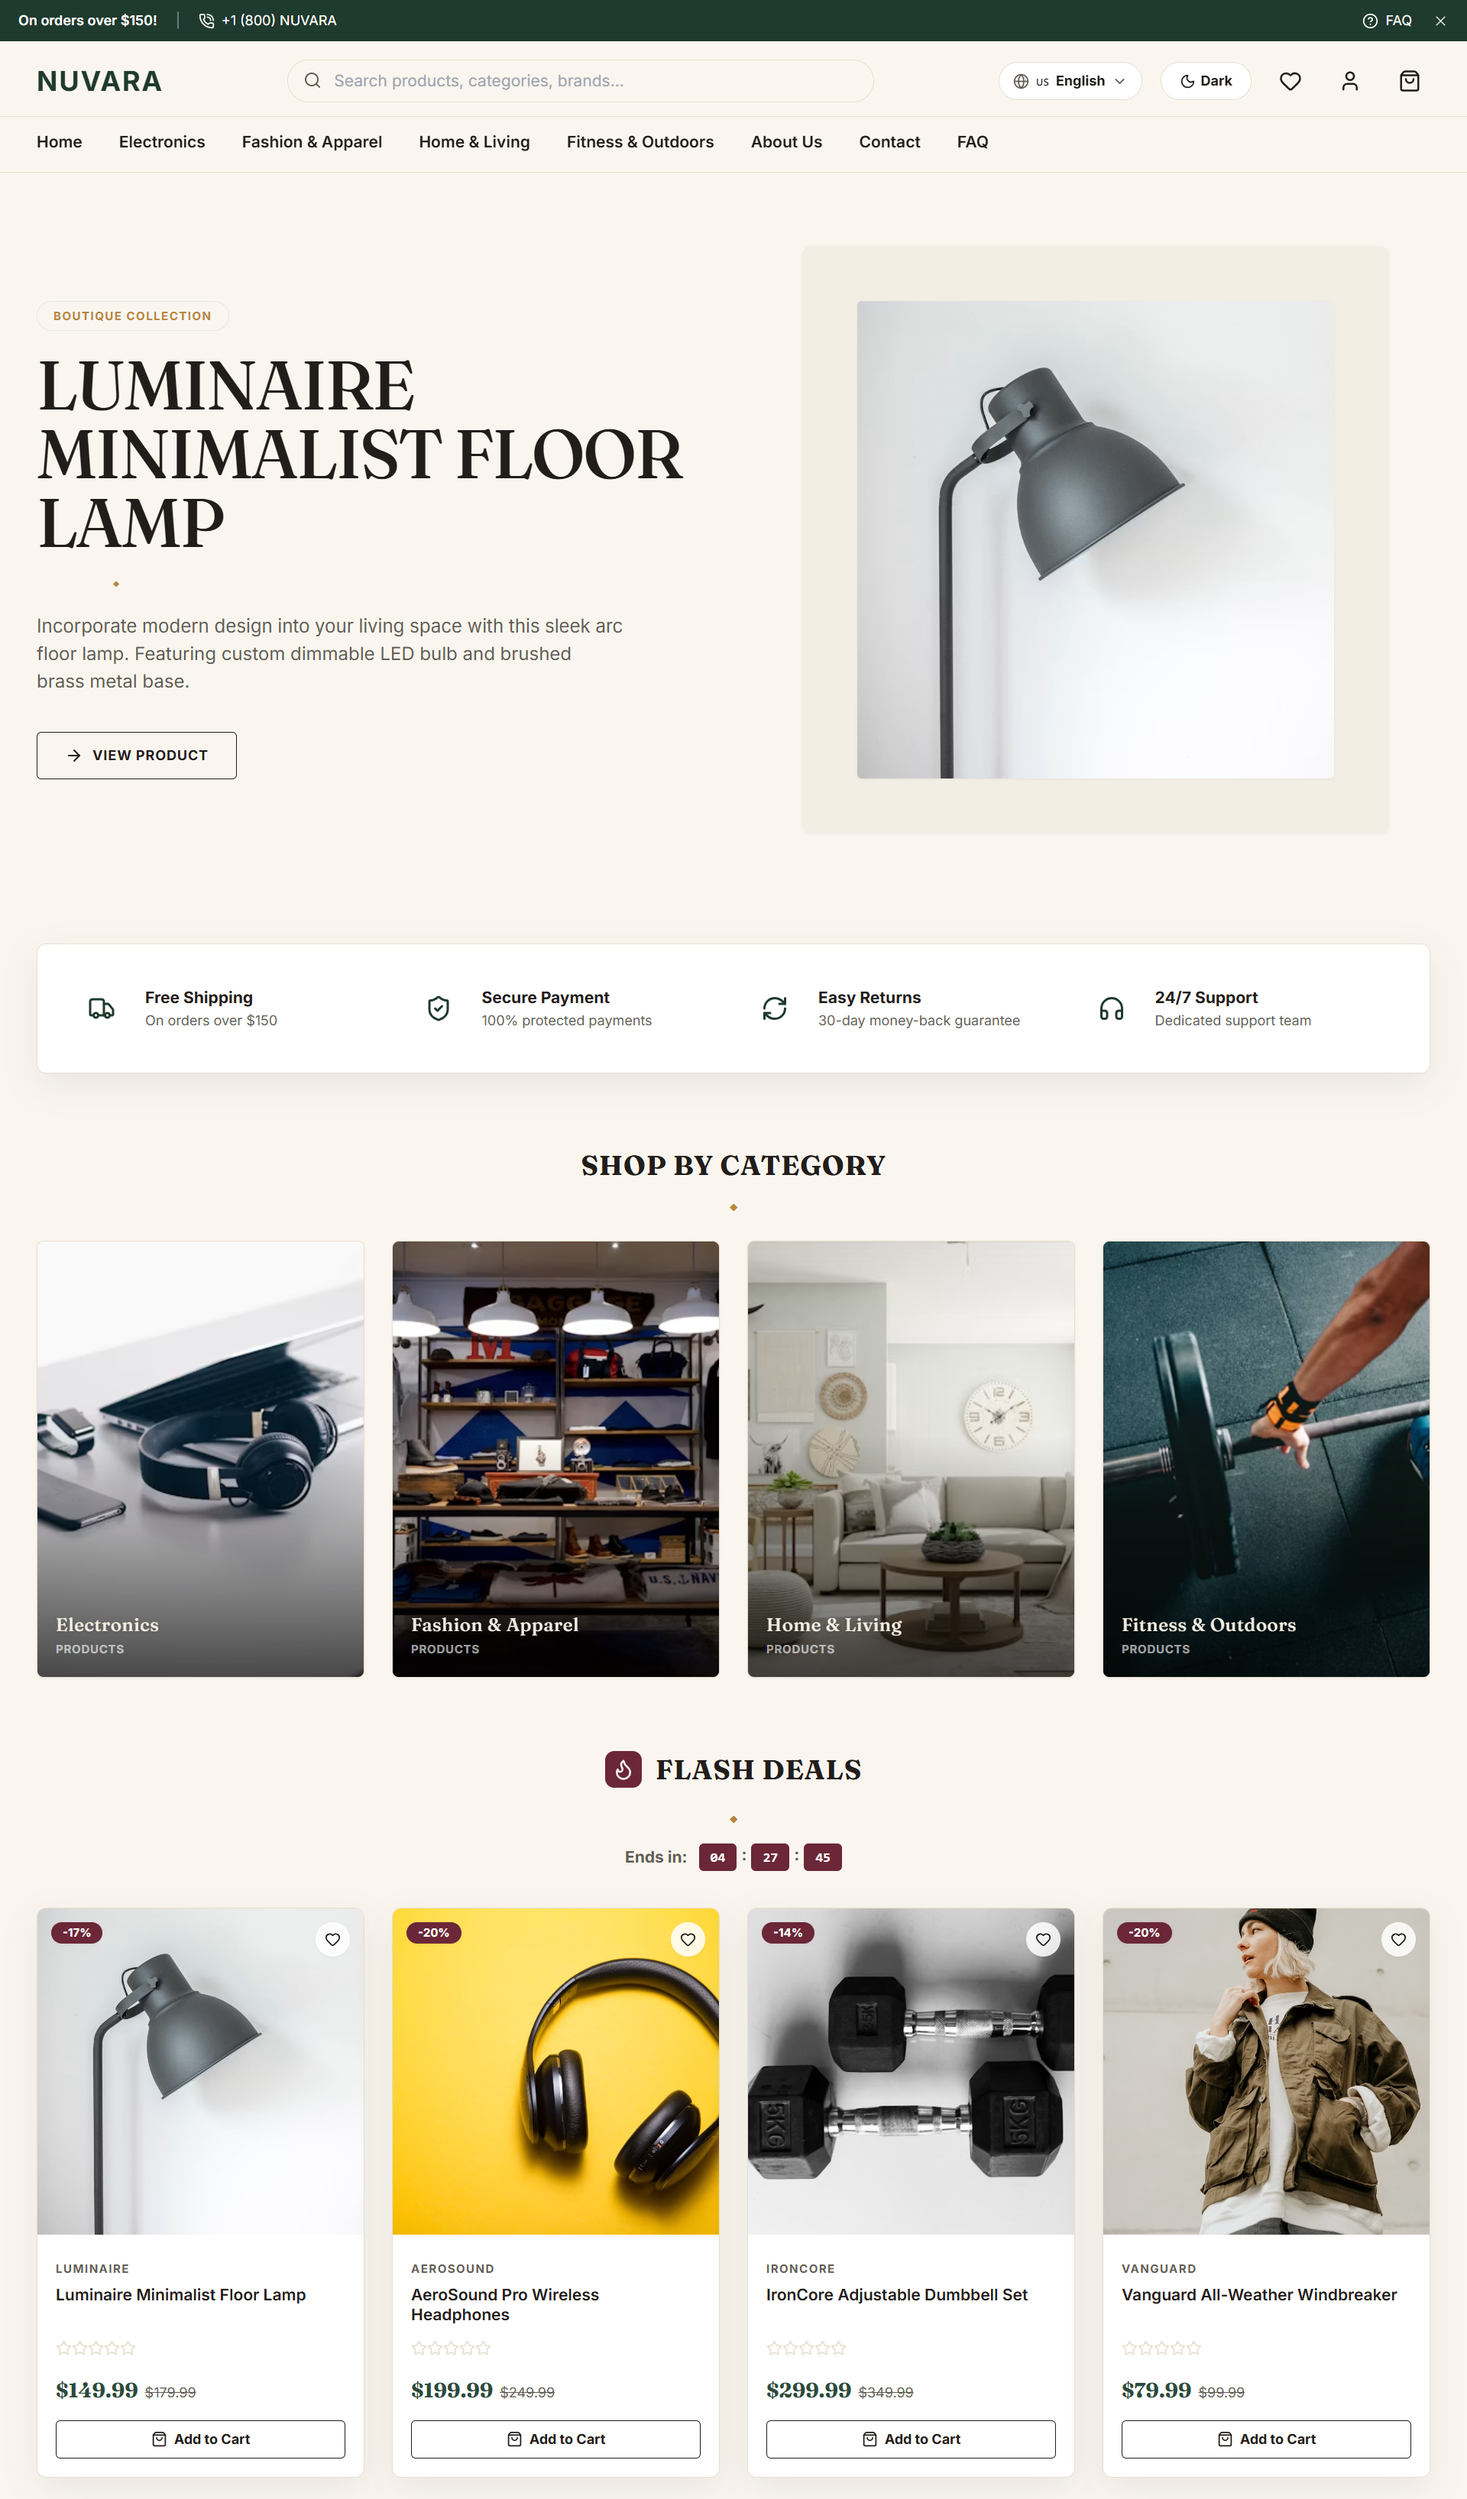
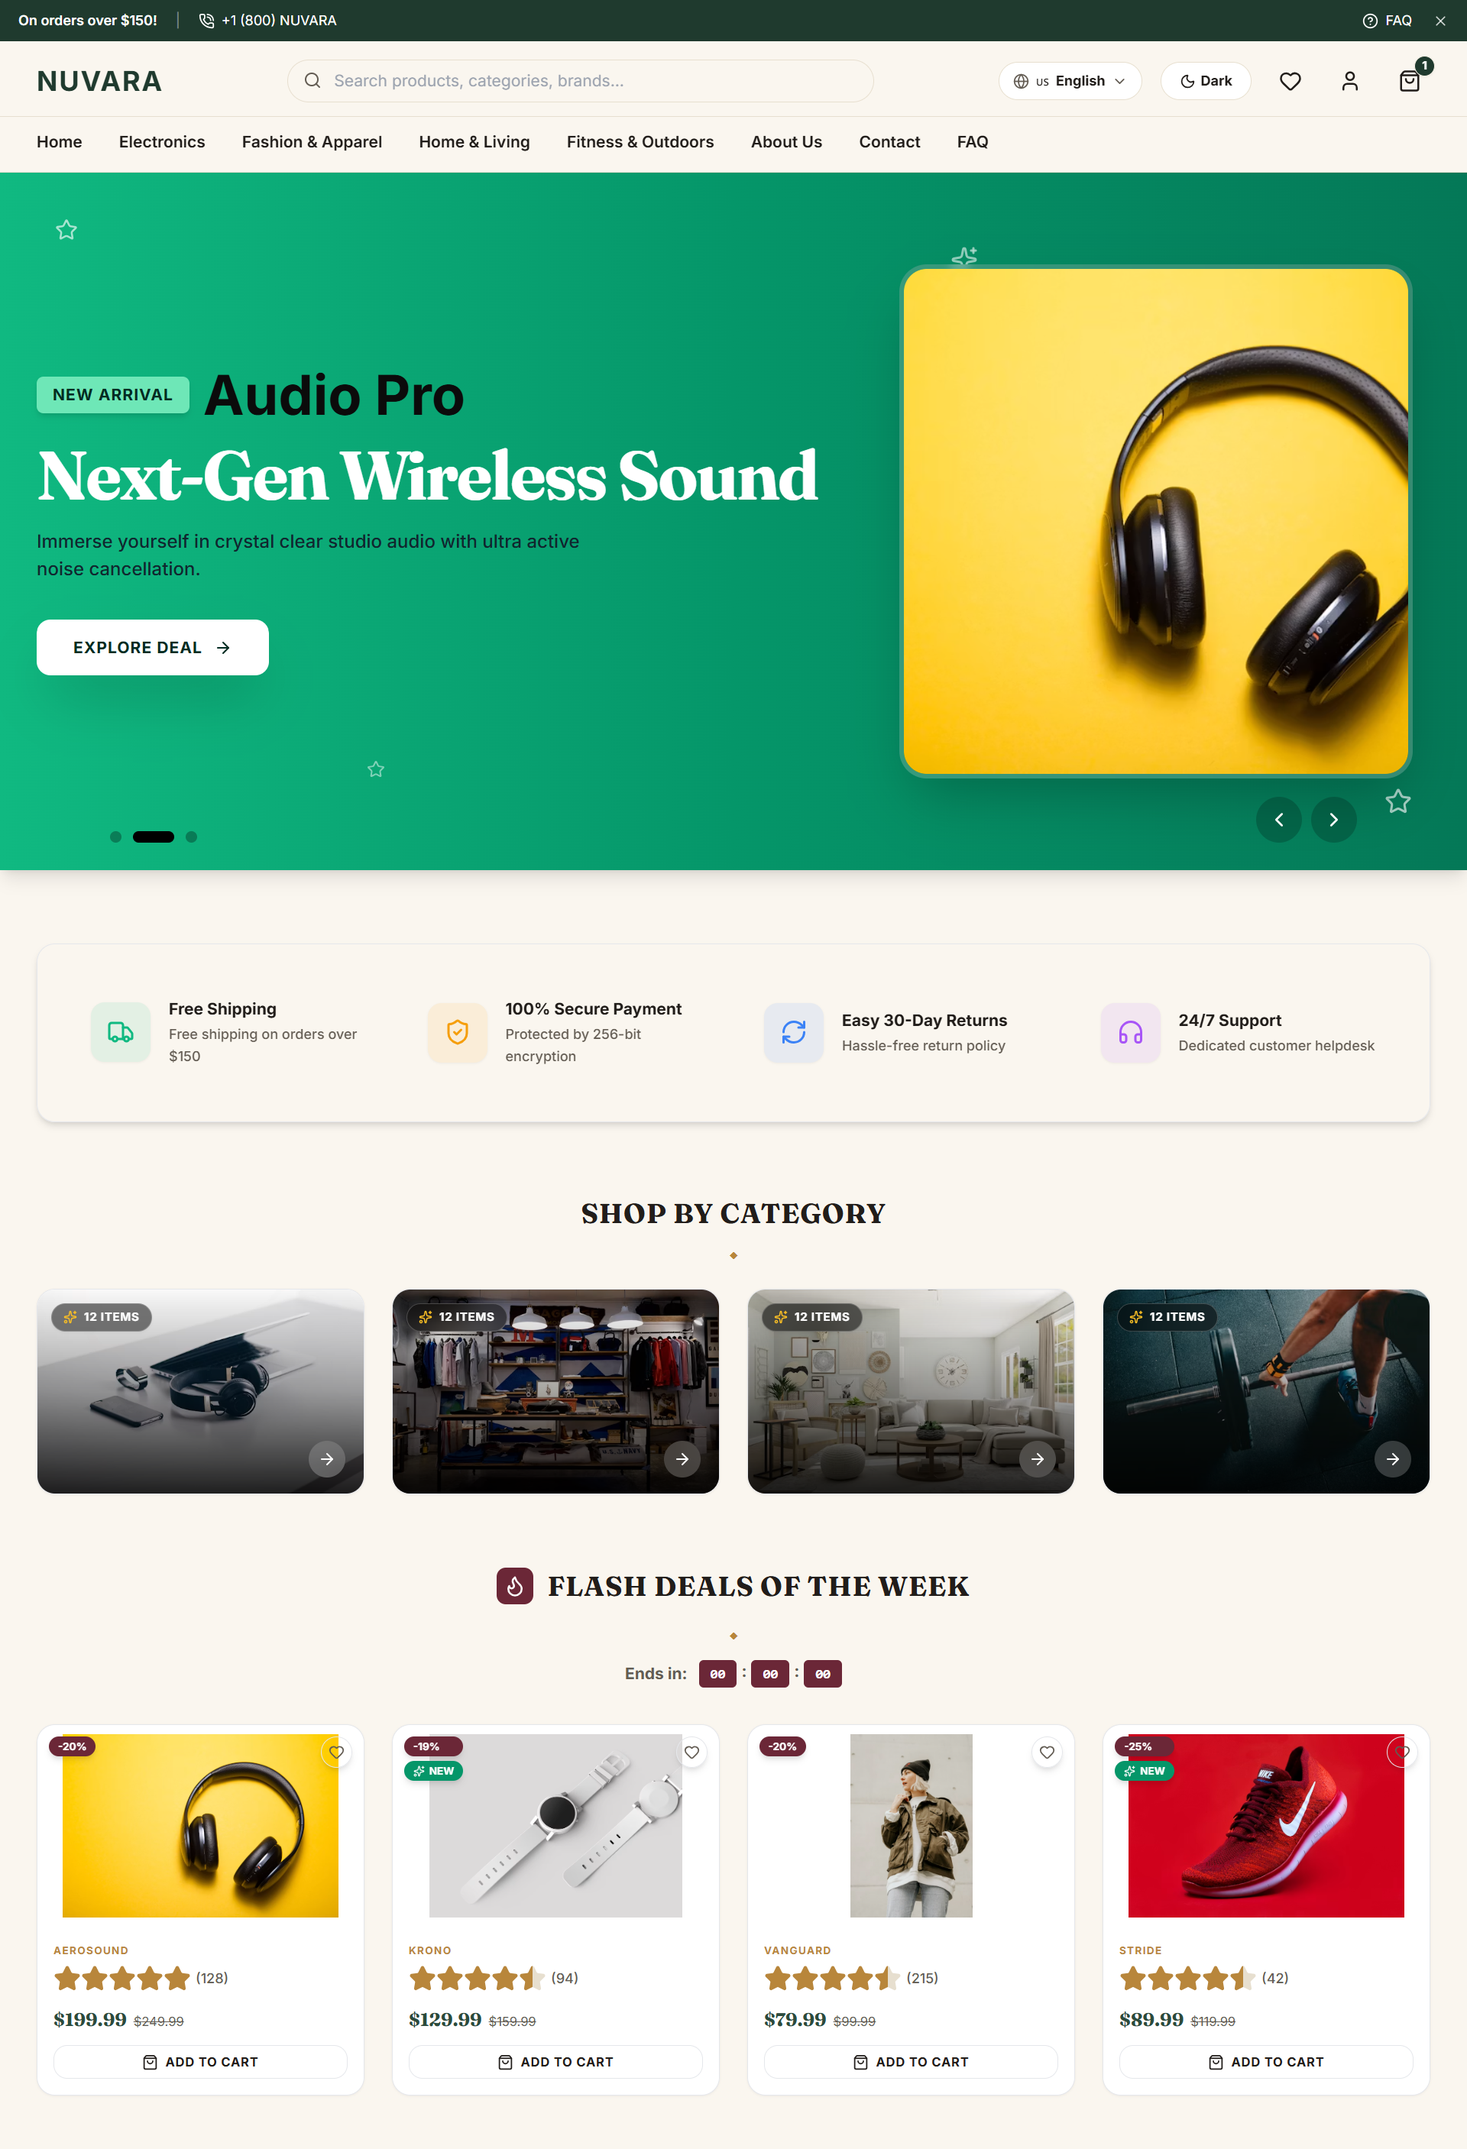
Added ERP

diff --git a/src/data/projects.js b/src/data/projects.js
@@ -2,6 +2,7 @@ import codexlabasia from '../assets/codexlabasia.png';
 import kino from '../assets/kino.png';
 import nuvara from '../assets/Nuvara.png';
 import mentorsGlobal from '../assets/mentors_global.png';
+import erp from '../assets/erp.png';
 
 const rawProjectsData = [
   {
@@ -20,6 +21,25 @@ const rawProjectsData = [
     icon: "GraduationCap",
     color: "from-teal-500 to-emerald-500",
     bgColor: "bg-teal-50"
+  },
+  {
+    id: 12,
+    title: "Enterprise ERP & HR Management System",
+    description: "Full-stack enterprise resource planning platform featuring multi-company RBAC, automated payroll, HRIS, CRM, inventory, and financial accounting modules.",
+    features: [
+      "Architected a full-stack Enterprise Resource Planning (ERP) platform utilizing Laravel 12, Blade components, and Tailwind CSS 4.",
+      "Built comprehensive HRIS & Workforce modules including employee directory, web punch attendance, shift scheduling, and leave approvals.",
+      "Engineered an automated payroll system with customizable salary structures, loans/advances management, and PDF payslip generation.",
+      "Integrated core enterprise operational tools: Inventory with multi-warehouse support, CRM deals pipeline, and Project time-tracking.",
+      "Designed role-based access control (RBAC) with Spatie permissions, multi-tenant company data scoping, and activity audit logging."
+    ],
+    image: erp,
+    tags: ["Laravel 12", "PHP 8.2", "Tailwind CSS 4", "Vite 7", "Spatie RBAC", "Blade", "DataTables", "SQLite / MySQL"],
+    githubLink: "https://github.com/34Sakib/ERP",
+    demoLink: "#",
+    icon: "Building2",
+    color: "from-emerald-500 to-teal-600",
+    bgColor: "bg-emerald-50"
   },
   {
     id: 11,
